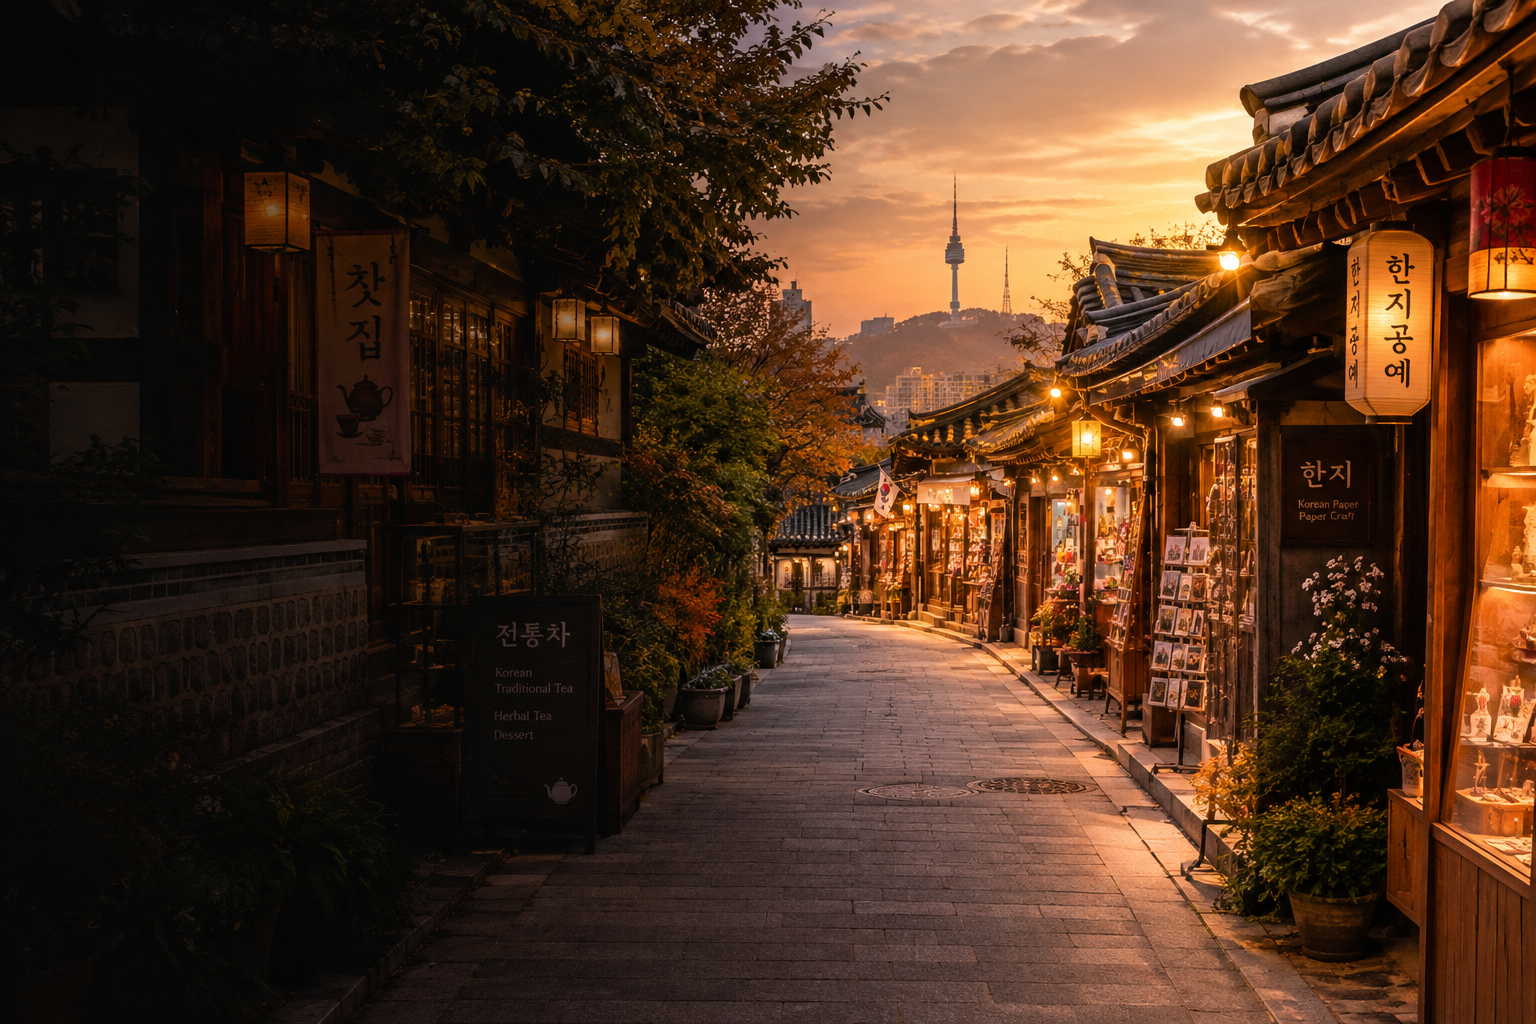
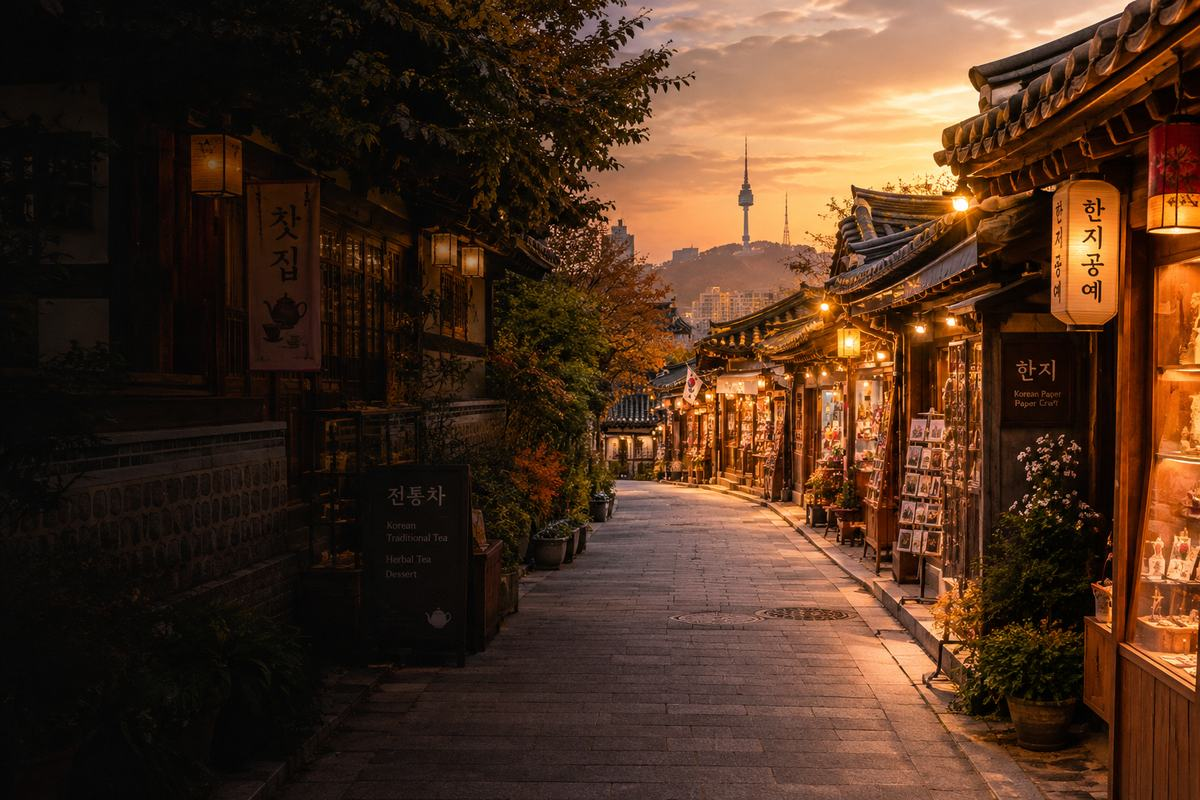
perf: 정적 이미지 용량 94% 축소 + 이미지/오디오 캐시 헤더 (Vercel 데이터 전송 한도 대응)
Vercel Hobby 데이터 전송 100GB 중 80GB를 사용(최근 12시간 9.85GB)했고 그중 약 90%가
원본 크기 이미지였음(카드 배경 사진 각 2~2.6MB, 헤더 로고 881KB를 100px로 표시).

- 카드 배경 6장: 1536x1024 PNG(.jpg 확장자) → 1200x800 JPEG q76 (각 76~153KB)
- wink-logo-full.png 1600px/881KB → 560px 256색 PNG 26KB, wink-logo-icon.png 512px → 192px 14KB
- /images, /audio 에 Cache-Control: public, max-age=86400, stale-while-revalidate=604800

diff --git a/next.config.ts b/next.config.ts
@@ -10,6 +10,17 @@ const nextConfig: NextConfig = {
 
   // ── 불필요한 헤더 제거 ──────────────────────────────────────
   poweredByHeader: false,
+
+  // ── 정적 이미지/오디오 캐시 ───────────────────────────────────
+  // public/ 파일은 기본값이 재검증(max-age=0)이라 방문자마다 다시 내려받아 데이터 전송량(Vercel 100GB 한도)을 많이 쓴다.
+  // 1일 캐시 + 7일 stale-while-revalidate 로 재방문 전송을 줄인다(파일 교체 시 최대 1일 내 반영).
+  async headers() {
+    const cache = [{ key: "Cache-Control", value: "public, max-age=86400, stale-while-revalidate=604800" }];
+    return [
+      { source: "/images/:path*", headers: cache },
+      { source: "/audio/:path*", headers: cache },
+    ];
+  },
 };
 
 export default nextConfig;
